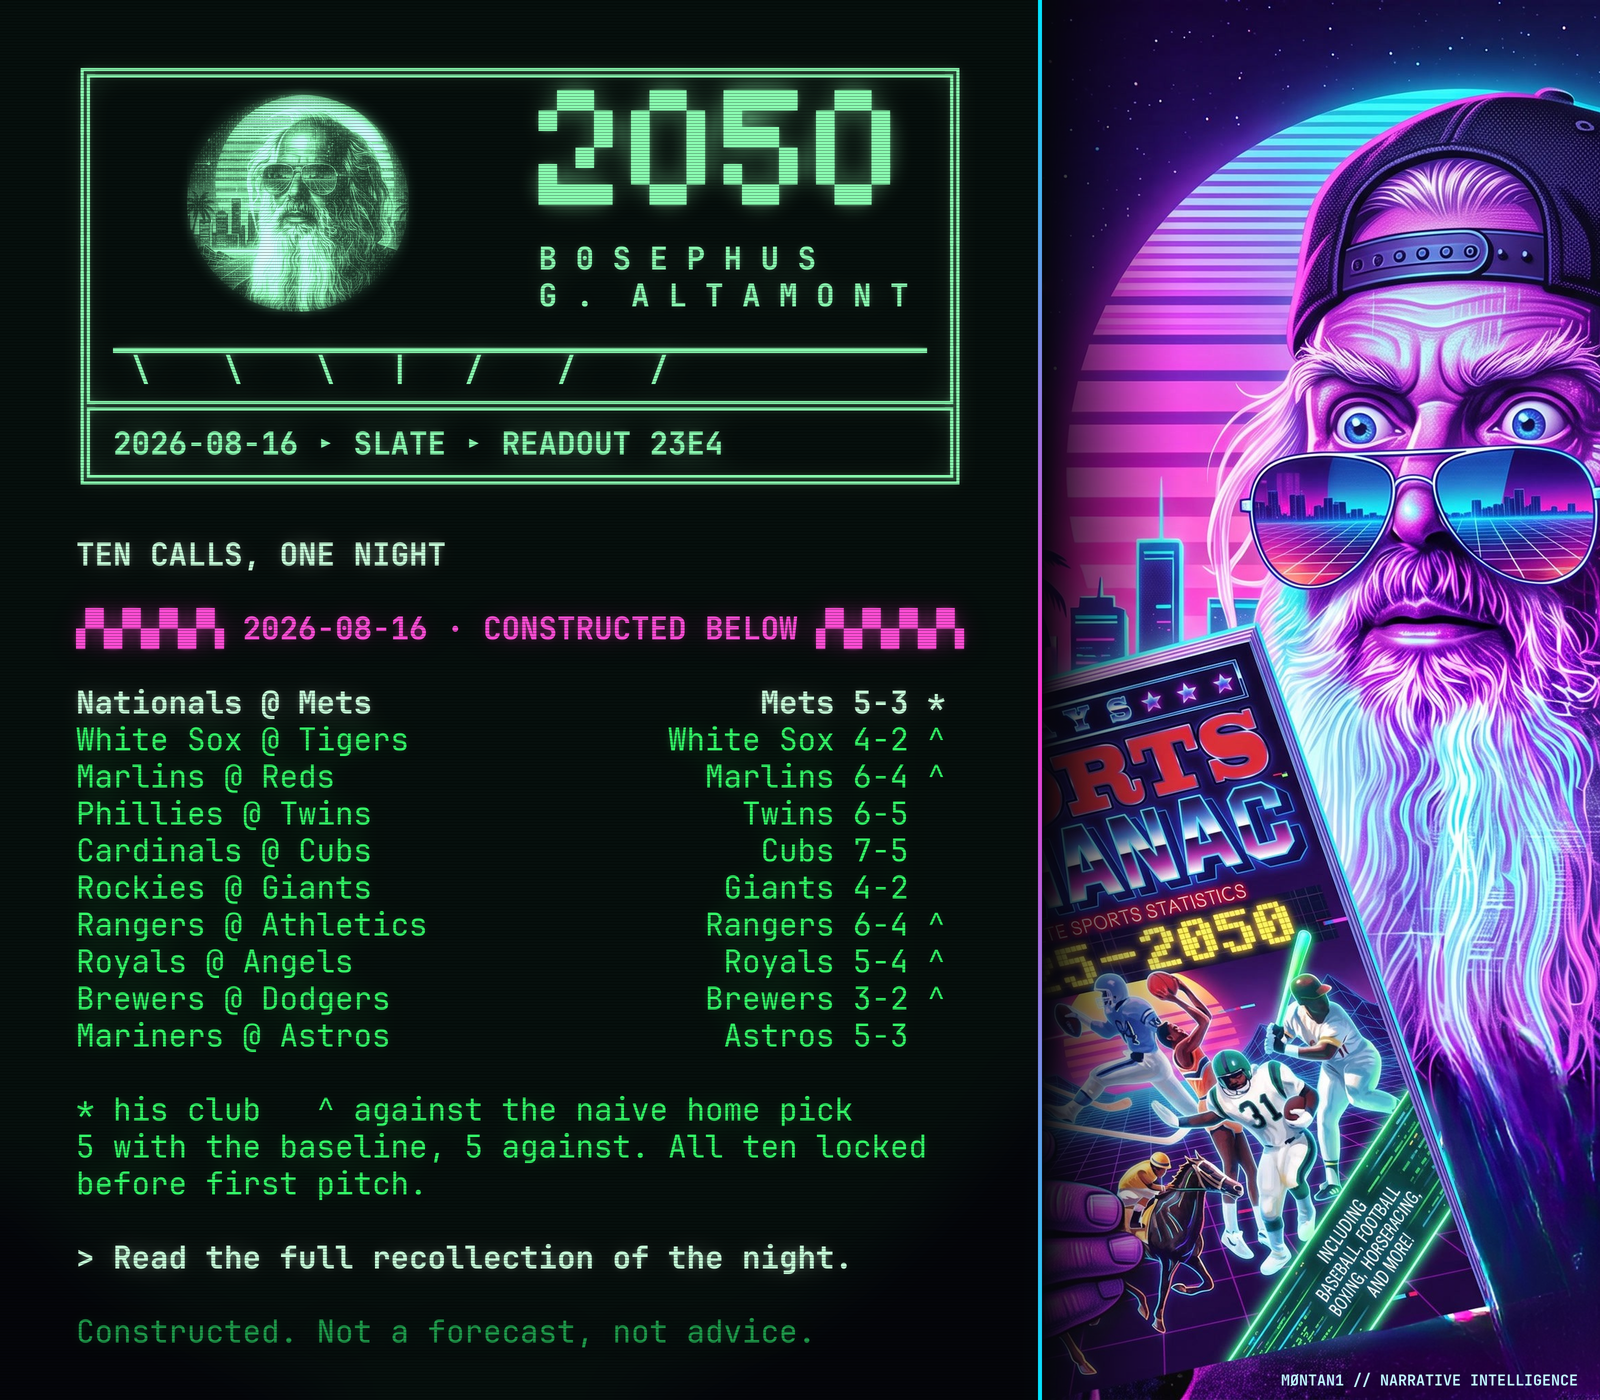
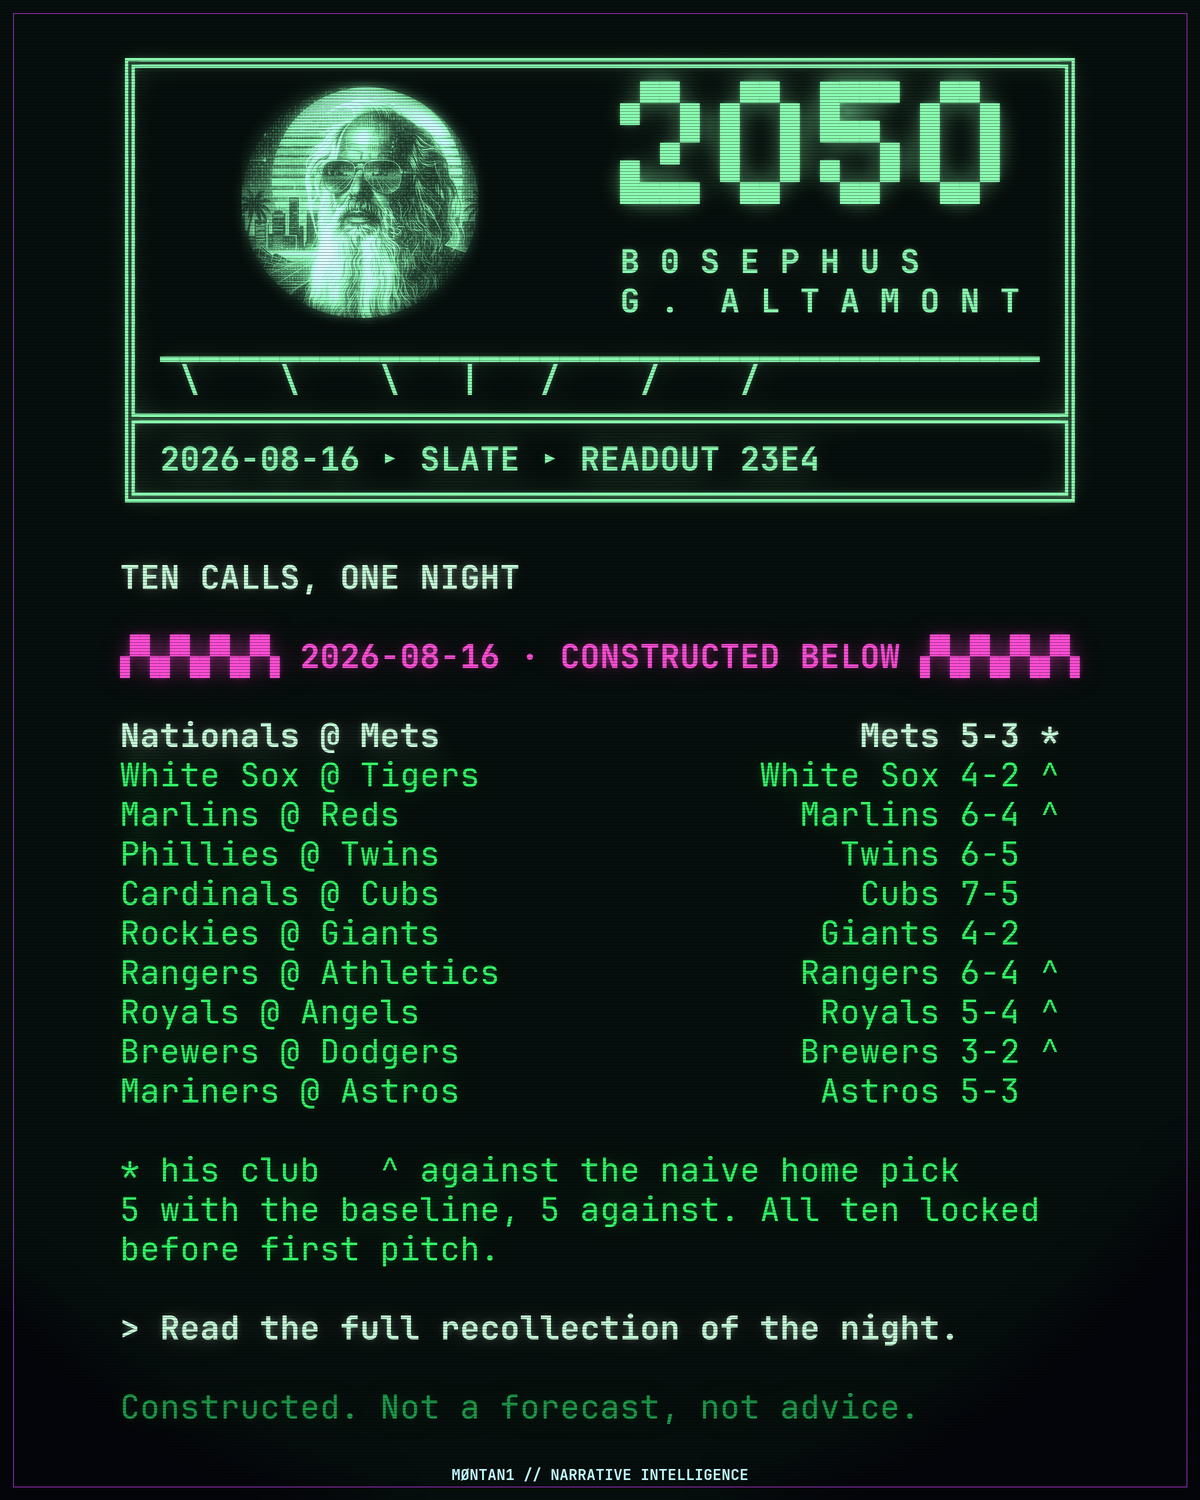
Drop the character plate now that the portrait is in the masthead
Slate cards are terminal only and move to the 1200x1500 article canvas,
so a slate and a single card are the same object with different
contents. The freed width goes to the calls, which is what the card is
for: type went from 57px to 66px.

Retires render_card_with_element.py rather than shipping it empty. The
wide 1600x900 cut existed to put a plate beside the terminal, which also
covered the fact that 48 columns leaves a 16:9 canvas mostly blank.
Without the plate it is 48 columns floating in 460px of margin either
side. Archived with a note on what it would need to come back.

Social image is now the 1200x1500 card, og:image dimensions and alt text
updated to match.

Also reserves footer clearance in the slate: with the art panel gone the
text block grew into the corner stamp.

diff --git a/docs/index.html b/docs/index.html
@@ -15,9 +15,9 @@
 <meta property="og:description" content="Not an agent. A machine that constructs a narrative over a cited record, keeps a visible seam between fact and construction, and leaves falsifiable markers so it can be graded later.">
 <meta property="og:url" content="https://m0ntan1.github.io/m0ntan1-narrative-intelligence-engine-bosephus-2050/">
 <meta property="og:image" content="https://m0ntan1.github.io/m0ntan1-narrative-intelligence-engine-bosephus-2050/assets/social-card.png">
-<meta property="og:image:width" content="1600">
-<meta property="og:image:height" content="900">
-<meta property="og:image:alt" content="Green terminal masthead reading BOSEPHUS G. ALTAMONT 2050 beside a synthwave portrait holding a sports almanac for 2025 to 2050.">
+<meta property="og:image:width" content="1200">
+<meta property="og:image:height" content="1500">
+<meta property="og:image:alt" content="Green phosphor terminal card. A portrait of B0SEPHUS G. ALTAMONT rendered in ASCII sits in the masthead beside the year 2050.">
 
 <meta name="twitter:card" content="summary_large_image">
 <meta name="twitter:title" content="MØNTAN1 Narrative Intelligence Engine: Bosephus 2050">
@@ -80,7 +80,7 @@
 <body>
 <div class="wrap">
 
-  <img src="assets/social-card.png" alt="Green terminal masthead reading BOSEPHUS G. ALTAMONT 2050 beside a synthwave portrait holding a sports almanac for 2025 to 2050.">
+  <img src="assets/social-card.png" alt="Green phosphor terminal card. A portrait of B0SEPHUS G. ALTAMONT rendered in ASCII sits in the masthead beside the year 2050.">
 
   <h1>MØNTAN1 Narrative Intelligence Engine</h1>
   <p class="lede" style="color:var(--pink);text-shadow:0 0 10px rgba(255,79,216,.45);margin:-4px 0 18px">Bosephus 2050, the first engine</p>

diff --git a/engine/render_slate.py b/engine/render_slate.py
@@ -1,17 +1,20 @@
 #!/usr/bin/env python3
 # -*- coding: utf-8 -*-
 """
-Slate card: one PNG carrying a whole group of calls, with the character plate.
+Slate card: one PNG carrying a whole group of calls.
 
-  python3 render_slate.py <slate.json> <element.png> <out.png>
+  python3 render_slate.py <slate.json> <out.png>
 
 Used when a run issues a group rather than a single artifact. The PNG carries
 the load: every matchup and every call is legible on the card itself, so the
 image is the deliverable and the write-up is the footnote rather than the other
 way round.
 
-Reuses the masthead, palette, font and glow from render_card.py, so a slate and
-a single card are visibly the same object.
+Same canvas, palette, font and glow as render_card.py, so a slate and a single
+card are the same object with different contents. The character plate that used
+to sit on the right was dropped once the portrait moved into the masthead: one
+face per card is enough, and the freed width goes to the calls, which are what
+the card is for.
 """
 import json
 import sys
@@ -21,10 +24,9 @@ from render_card import (F_REG, F_BOLD, masthead_lines, paste_portrait, strip,
                          seam, wrap, MIN_FS, GREEN, MASTC, HEAD, PINK, DIM, CYAN)
 
 S = 2
-W_OUT, H_OUT = 1600, 1400
+W_OUT, H_OUT = 1200, 1500      # same canvas as the article card
 W, H = W_OUT * S, H_OUT * S
-ART_W = 560 * S
-TERM_W = W - ART_W
+TERM_W = W
 PAD = 40 * S
 COLS = 48
 
@@ -83,9 +85,10 @@ def fit(n, avail_w, avail_h):
         "Do not lower MIN_FS.".format(n))
 
 
-def render(spec, element_path, out_path):
+def render(spec, out_path):
     lines = build(spec)
-    fs, lh = fit(len(lines), TERM_W - 2 * PAD, H - 2 * PAD)
+    # reserve the footer strip so the text block cannot crowd the stamp
+    fs, lh = fit(len(lines), TERM_W - 2 * PAD, H - 2 * PAD - 34 * S)
     reg = ImageFont.truetype(F_REG, fs)
     bold = ImageFont.truetype(F_BOLD, fs)
 
@@ -96,22 +99,7 @@ def render(spec, element_path, out_path):
     bloom = bloom.resize((TERM_W, H), Image.LANCZOS).filter(ImageFilter.GaussianBlur(50))
     base.paste(Image.new("RGB", (TERM_W, H), (10, 34, 20)), (0, 0), bloom)
 
-    art = Image.open(element_path).convert("RGB")
-    side = max(ART_W, H)
-    art = art.resize((side, side), Image.LANCZOS)
-    # Bias the crop left of centre. The almanac is the storytelling object in
-    # this plate and dead-centre cropping slices its title off.
-    cx = int((art.width - ART_W) * 0.34)
-    art = art.crop((cx, (art.height - H) // 2, cx + ART_W, (art.height - H) // 2 + H))
-    fade = Image.new("L", (ART_W, 1))
-    px = fade.load()
-    for x in range(ART_W):
-        t = x / (ART_W * 0.26)
-        px[x, 0] = 0 if t >= 1 else int(255 * (1 - t) ** 1.4)
-    art.paste(Image.new("RGB", (ART_W, H), (4, 5, 10)), (0, 0), fade.resize((ART_W, H)))
-    base.paste(art, (TERM_W, 0))
-
-    y = (H - len(lines) * lh) // 2
+    y = (H - 34 * S - len(lines) * lh) // 2
     x = (TERM_W - bold.getlength("0" * COLS)) / 2
     base = paste_portrait(base, x, y, bold.getlength("0"), lh)
 
@@ -135,29 +123,20 @@ def render(spec, element_path, out_path):
         ds.rectangle([0, yy, TERM_W, yy + S - 1], fill=(0, 0, 0, 70))
     base.paste(scan, (0, 0), scan)
 
-    div = Image.new("RGB", (4 * S, H))
-    dd = ImageDraw.Draw(div)
-    for yy in range(H):
-        t = abs(yy - H / 2) / (H / 2)
-        dd.line([(0, yy), (4 * S, yy)],
-                fill=(int(255 - 255 * t), int(47 + 182 * t), int(208 + 47 * t)))
-    halo = Image.new("RGB", (W, H), (0, 0, 0))
-    halo.paste(div, (TERM_W - 2 * S, 0))
-    halo = halo.filter(ImageFilter.GaussianBlur(16 * S))
-    base.paste(halo, (0, 0), halo.convert("L").point(lambda v: min(255, int(v * 1.6))))
-    base.paste(div, (TERM_W - 2 * S, 0))
-
+    ImageDraw.Draw(base).rectangle(
+        [PAD // 3, PAD // 3, W - PAD // 3, H - PAD // 3],
+        outline=(120, 40, 150), width=S)
     ImageDraw.Draw(base).text(
-        (W - 22 * S, H - 30 * S), "MØNTAN1 // NARRATIVE INTELLIGENCE",
-        font=ImageFont.truetype(F_BOLD, 15 * S), fill=CYAN, anchor="ra")
+        (W // 2, H - PAD // 2), "MØNTAN1 // NARRATIVE INTELLIGENCE",
+        font=ImageFont.truetype(F_BOLD, 15 * S), fill=CYAN, anchor="ms")
 
     base.resize((W_OUT, H_OUT), Image.LANCZOS).save(out_path, optimize=True)
     return fs, len(lines)
 
 
 if __name__ == "__main__":
-    if len(sys.argv) != 4:
+    if len(sys.argv) != 3:
         raise SystemExit(__doc__)
     spec = json.load(open(sys.argv[1], encoding="utf-8"))
-    size, n = render(spec, sys.argv[2], sys.argv[3])
-    print("wrote {}  ({} lines at {}px)".format(sys.argv[3], n, size))
+    size, n = render(spec, sys.argv[2])
+    print("wrote {}  ({} lines at {}px)".format(sys.argv[2], n, size))

diff --git a/engine/test_renderers.py b/engine/test_renderers.py
@@ -74,13 +74,12 @@ try:
 except SystemExit as e:
     check("render_slate floor actually raises", "MIN_FS" in str(e))
 
-# --- 5. wide variant must not overflow its panel -------------------------
-import render_card_with_element as rw
-tall = spec(quote=[LONG])
-need = len(rc.build_lines(tall)) * rw.LH
-check("render_card_with_element checks overflow",
-      hasattr(rw, "MAX_LINES") or need <= rw.H,
-      "%d px of text into a %d px panel, no check" % (need, rw.H))
+# --- 5. slate reserves footer clearance ----------------------------------
+# The stamp sits in the bottom strip. If fit() is allowed the full height the
+# text block grows into it and the two collide.
+fs, lh = rs.fit(20, rs.TERM_W - 2 * rs.PAD, rs.H - 2 * rs.PAD - 34 * rs.S)
+check("slate reserves room for the footer stamp",
+      20 * lh <= rs.H - 2 * rs.PAD - 34 * rs.S)
 
 # --- 6. the portrait must never blank the sun on text surfaces -----------
 check("text masthead keeps the drawn sun",

diff --git a/SPEC.md b/SPEC.md
@@ -155,8 +155,6 @@ Fixed art, chrome sun over a grid, 64 columns inside the frame. It goes at the v
 
 This is opt-in and must stay opt-in. `masthead_lines()` defaults to the drawn sun, and only the PNG renderers pass `portrait=True`. Text surfaces share that function, so a blanked sun with no image over it is an empty box, and the Discord ANSI block would ship with a hole in the masthead. `tools/test_renderers.py` guards both directions.
 
-The wide variant keeps the drawn sun deliberately: it already carries a full character plate beside the terminal, and two faces on one card is one too many.
-
 Strip fields, in order and never reordered: Present Line date, mode, Canon version, artifact ID, Tell count, department tag (`NIA // EB`, Narrative Intelligence, Electric Blue). Build each strip line as two leading spaces, fields joined by `   ▸   `, padded with spaces to 64 columns. If a field set overruns, drop the trailing field rather than wrapping. A strip line that breaks the frame is a failed render and gets rebuilt.
 
 **BACKTEST mode strips differently.** The Present Line field carries the backdated line and the mode field reads `BACKTEST · BLIND`, so no reader ever mistakes a calibration run for a live artifact:
@@ -646,7 +644,7 @@ All under `00- IN-FLIGHT/AGENTS, WORKFLOWS, SKILLS, AND ROUTINES/BOSEPHUS - 2050
 | `ledgers/tells-policy.md` | Every Tell ever issued, with artifact ID, resolution date, and outcome once known. | Append on issue, update on resolution. |
 | `artifacts/YYYY-MM-DD_<slug>.md` | The output pieces. | One per run. |
 | `tools/render_card.py` | The card renderer. Auto-fits type, auto-wraps copy to 46 columns. | Frozen tooling. Shorten the card copy when it will not fit, never edit the script to make room. |
-| `tools/render_slate.py` | Slate card. One PNG carrying a whole group of calls, with the character plate. | Frozen tooling. When a run issues a group, the card carries the calls and the write-up carries the reasoning. |
+| `tools/render_slate.py` | Slate card. One PNG carrying a whole group of calls, same 1200x1500 canvas as the article card. | Frozen tooling. When a run issues a group, the card carries the calls and the write-up carries the reasoning. |
 | `tools/render_ansi.py` | Discord-ready ANSI block from the same card JSON. Forces the seam to neon pink. | Frozen tooling. It raises on an unmapped colour rather than falling back, which is how a green seam gets caught. |
 | `cards/<id>.card.json` | Card copy for one artifact. Six fields, unwrapped strings. | One per run, written at emit. |
 | `social/<id>_card.png` | The 1200x1500 card. Required output, not optional. | One per run. An artifact without its card is incomplete. |

diff --git a/README.md b/README.md
@@ -155,8 +155,6 @@ order the artifact wants. The ANSI emitter raises on an unmapped colour rather
 than falling back to green, because a silent fallback is exactly how a seam goes
 green without anyone noticing.
 
-`render_card_with_element.py` is a wide 1600x900 variant with a character plate beside the terminal. It shares the masthead and wrap logic with the canonical renderer so the two cannot drift.
-
 ---
 
 ## Layout
@@ -168,8 +166,7 @@ engine/
   render_card.py         Canonical card emit, 1200x1500, terminal only
   render_ansi.py         Discord ANSI block, seam forced to neon pink
   render_seam.py         Seam rule as a PNG, for surfaces that cannot colour text
-  render_slate.py        Slate card: a whole group of calls on one PNG, with the plate
-  render_card_with_element.py  Wide variant with character plate, 1600x900
+  render_slate.py        Slate card: a whole group of calls on one PNG
   cards/                 Card copy, one JSON per artifact
   sports/                SPORTS LOGIC, mode GAME
     gamefile.py          Verified pre-game dossier: venue, roof, weather, form
